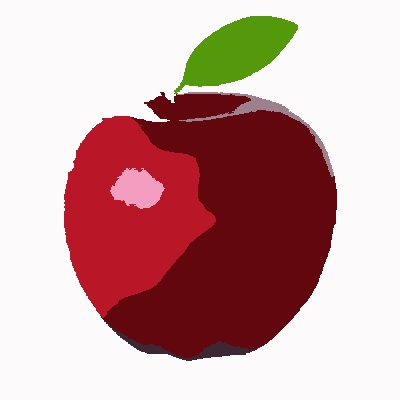
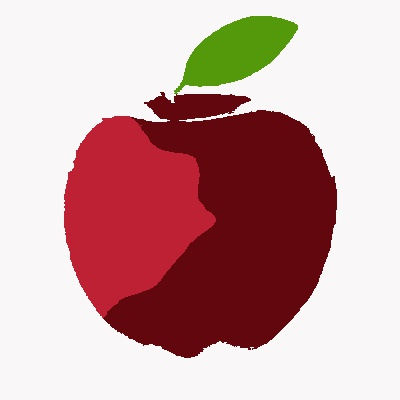
reduce first strokes num

diff --git a/VisualFeedback/VisualFeedback/ColorSeparation.cpp b/VisualFeedback/VisualFeedback/ColorSeparation.cpp
@@ -52,8 +52,8 @@ void FindDrawPoints(int y, int x, int ys, int xe, Mat fill_region, ofstream & ou
 }
 void FillSimulation(vector <Mat> fillRegions, vector<Scalar> colorValue, vector<StrokeCluster> &fisrtDrawCluster){
 	float size = 0;
-	int gap = 9;
-	int lineWidth = 5;
+	int gap = 15;
+	int lineWidth = 10;
 	
 	//Filling regions
 	for (int i = 0; i < fillRegions.size(); i++) {

diff --git a/VisualFeedback/VisualFeedback/MeanShift.cpp b/VisualFeedback/VisualFeedback/MeanShift.cpp
@@ -50,7 +50,7 @@ int MeanShift(const IplImage* img, int **labels)
 
 	int level = 1;
 	double color_radius2=color_radius*color_radius;
-	int minRegion = 1000;
+	int minRegion = 1500;
 
 	// use Lab rather than L*u*v!
 	// since Luv may produce noise points
